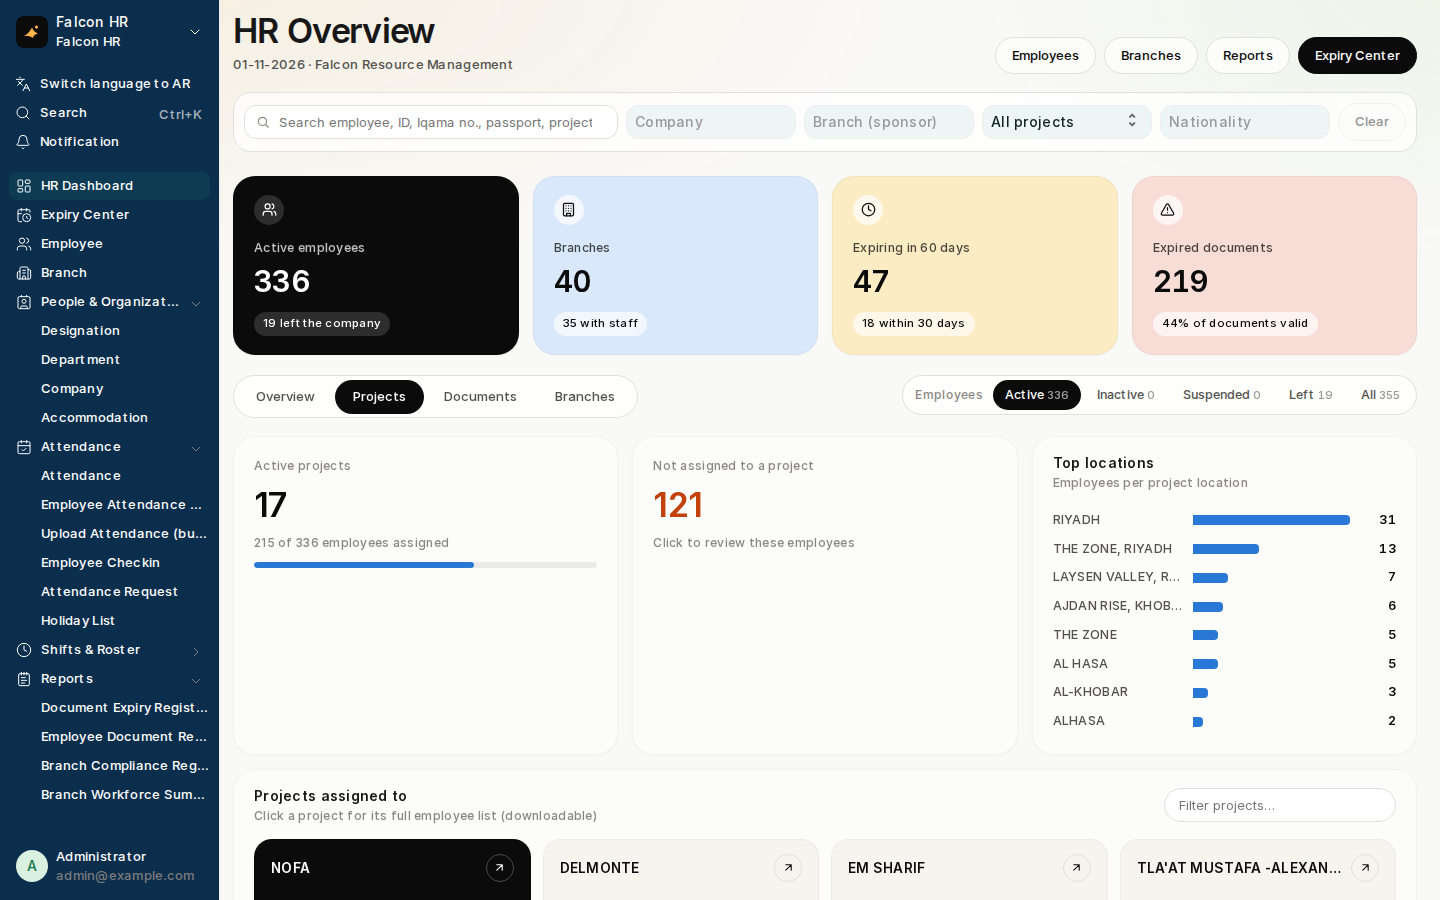
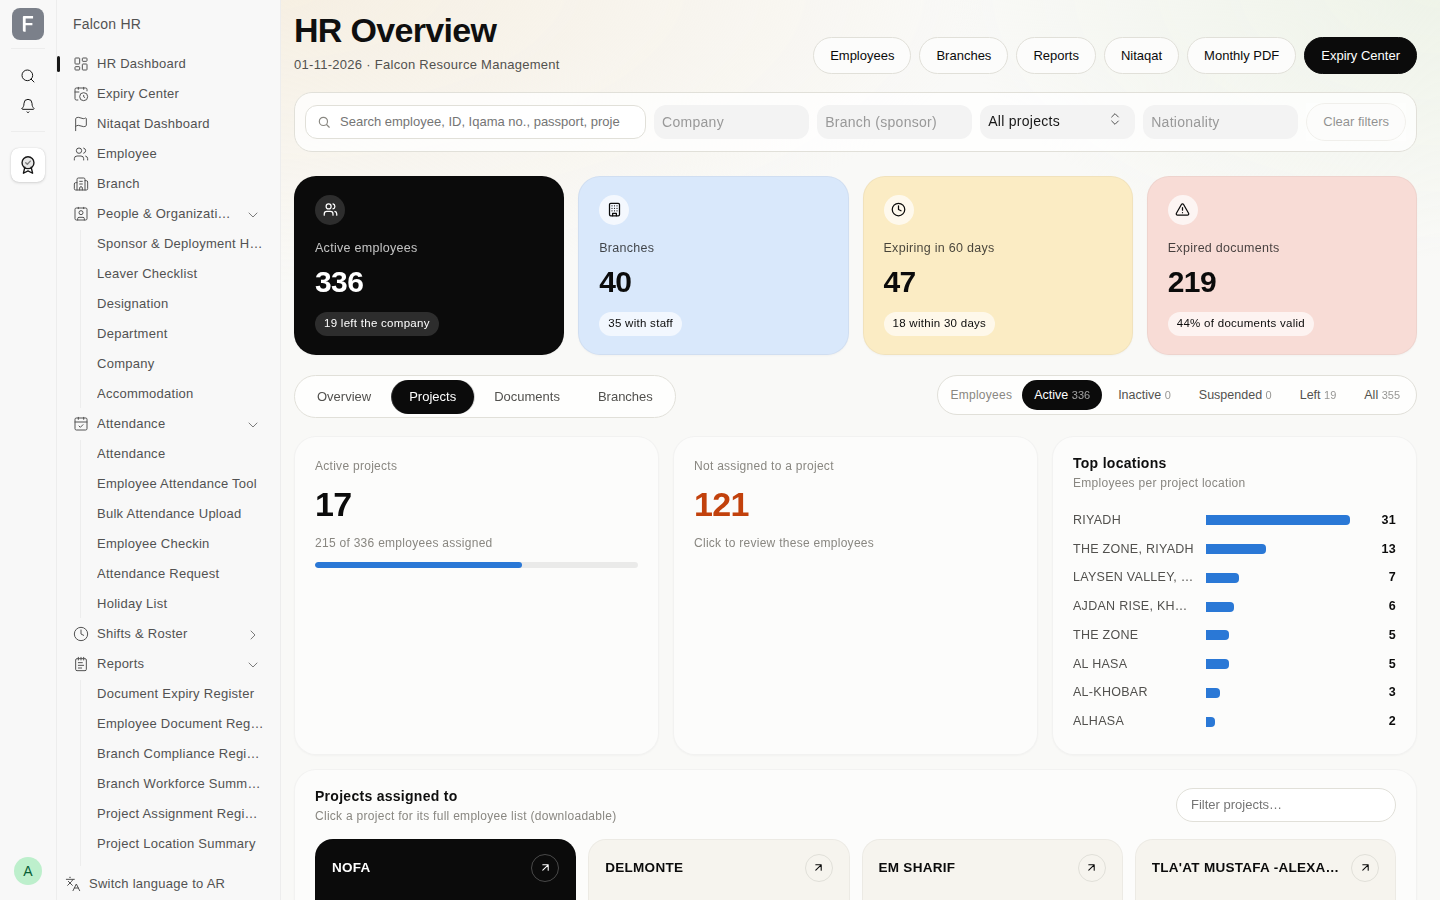
docs: refresh screenshots on Frappe 16.54 UI; add Bulk Attendance Upload

diff --git a/README.md b/README.md
@@ -7,7 +7,7 @@ alerts; it does not modify any HRMS/ERPNext doctype or code.
 
 ### Screenshots
 
-> Employee names and document numbers are masked in these images.
+> Employee names and document numbers are masked in these images. Screenshots: Frappe 16.54 / HRMS 16.53.
 
 **HR Dashboard — overview** (search, filters, headline tiles, employee-status switch, headcount by branch, document health)
 
@@ -37,6 +37,10 @@ alerts; it does not modify any HRMS/ERPNext doctype or code.
 
 ![Nitaqat charts](docs/screenshots/12-nitaqat-charts.png)
 
+**Bulk Attendance Upload** — download a pre-filled template, fill Status, upload, review, then confirm the import
+
+![Bulk Attendance Upload](docs/screenshots/13-bulk-attendance-upload.png)
+
 **Desktop icon**
 
 ![Desktop](docs/screenshots/01-desktop-icon.png)
@@ -57,6 +61,7 @@ alerts; it does not modify any HRMS/ERPNext doctype or code.
 | Sponsor & deployment history (one current sponsor per employee, durations, syncs Employee branch/project) | Employee form; `Employee Deployment` |
 | Leaver checklist (13 Saudi-specific steps on HRMS Employee Separation, auto-drafted when an employee is set to Left) | Employee (Left) → Leaver Checklist |
 | Monthly management PDF | HR / Nitaqat dashboard → Monthly PDF |
+| Bulk Attendance Upload (template → review → confirm import; replaces HRMS Upload Attendance) | `/desk/falcon-hr/bulk-attendance-upload` |
 | Arabic translations (358 strings; never overrides other apps' Arabic) | `falcon_hr/locale/ar.po` |
 | Desktop icon + grouped sidebar | "Falcon HR" |
 
